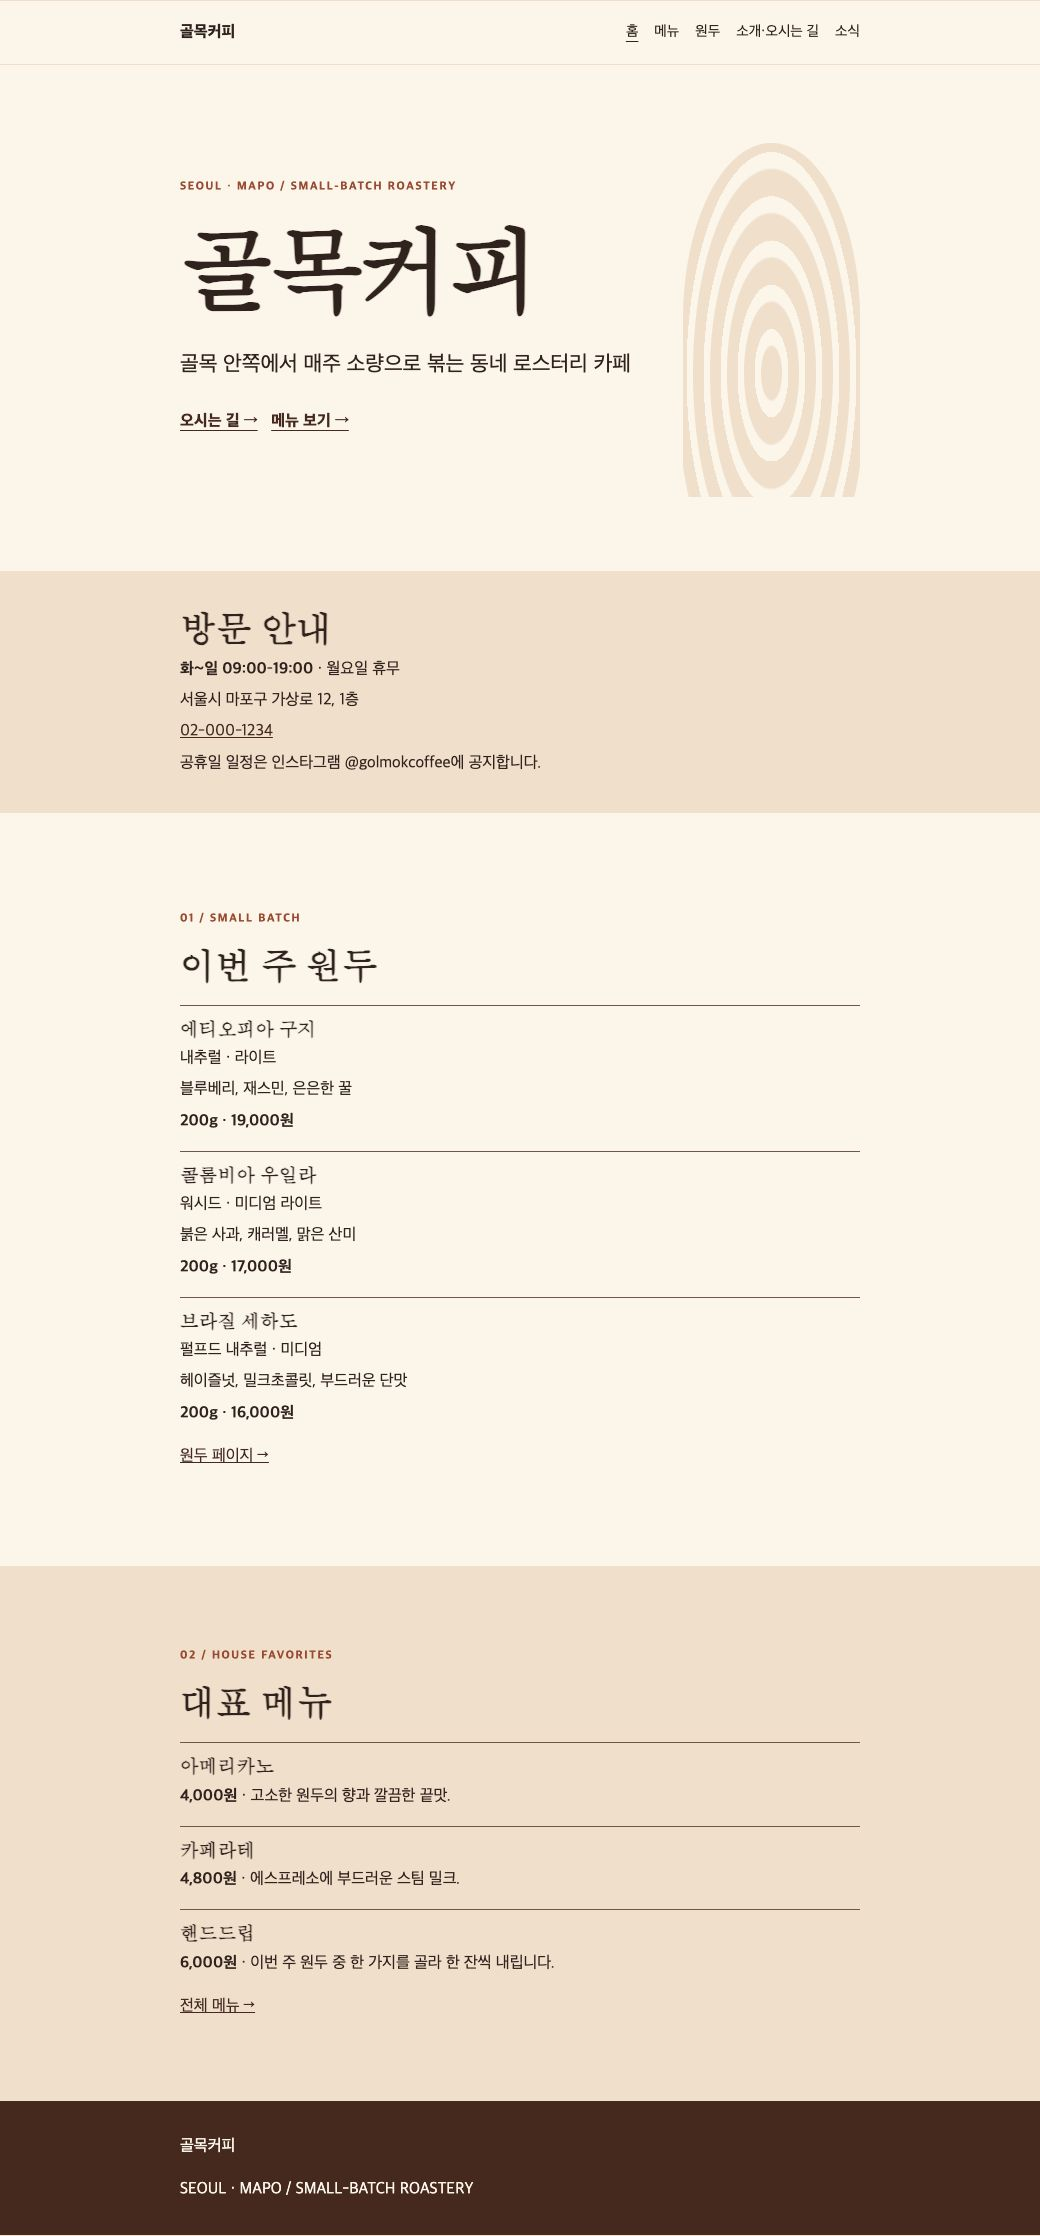
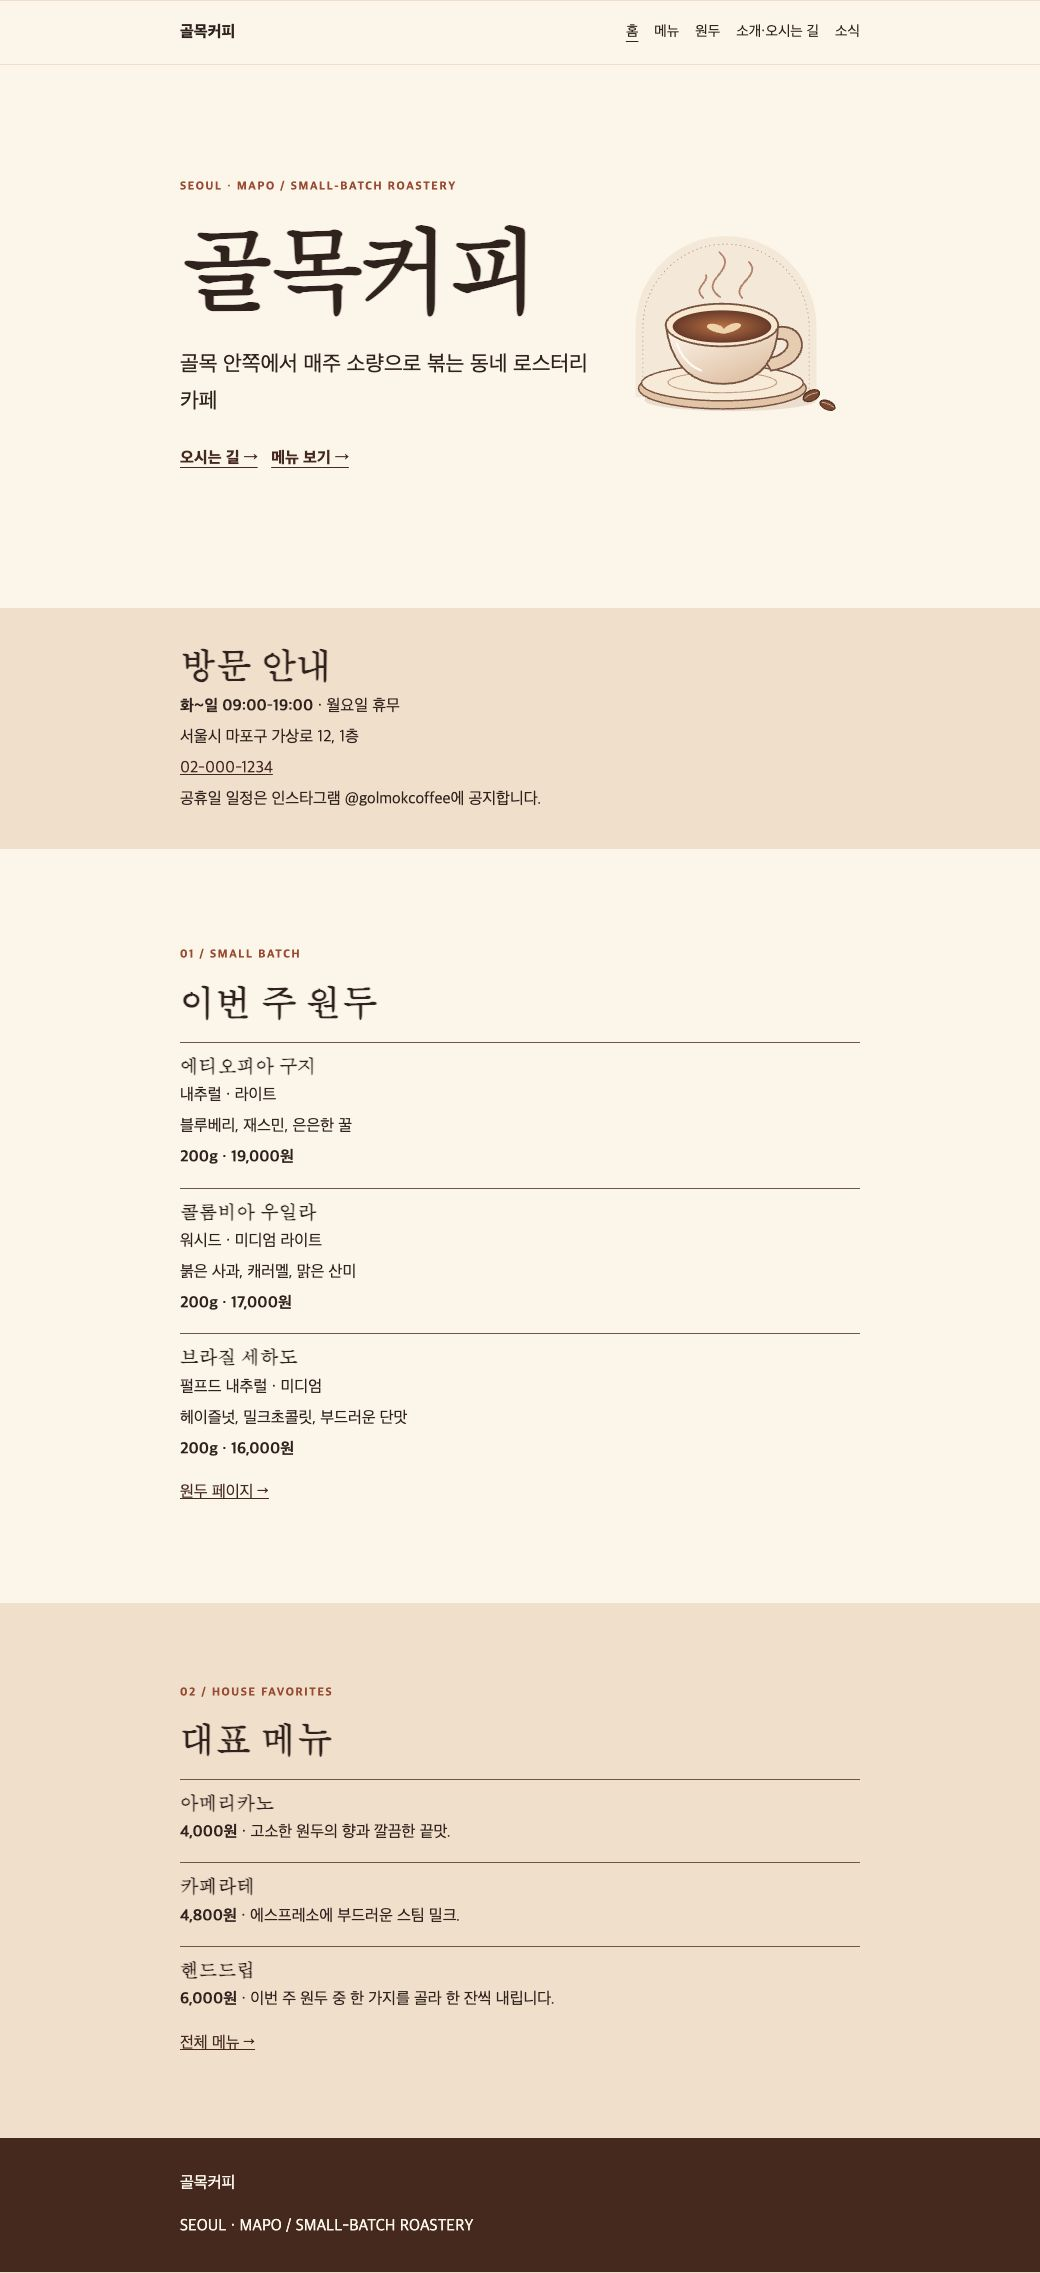
골목커피: Codex 추가 요청(커피잔 SVG, 원두 이미지 3장) 결과
Claude-Session: https://claude.ai/code/session_01NyjakQNUuqDpaHpainKgs5

diff --git a/wordpress-site-with-codex/theme/style.css b/wordpress-site-with-codex/theme/style.css
@@ -4,7 +4,7 @@ Description: A custom block theme scaffolded by Studio Code.
 Requires at least: 6.7
 Tested up to: 6.9
 Requires PHP: 7.2
-Version: 0.1.0
+Version: 0.1.1
 License: GNU General Public License v2 or later
 License URI: http://www.gnu.org/licenses/gpl-2.0.html
 Text Domain: golmokcoffee
@@ -56,14 +56,15 @@ Tags: full-site-editing, block-patterns, block-styles, wide-blocks, accessibilit
 	content: "";
 	position: absolute;
 	z-index: -1;
-	right: 0;
-	top: 16%;
-	bottom: 12%;
-	width: 26%;
-	border-radius: 50% 50% 6px 6px;
-	background: repeating-radial-gradient(ellipse at 50% 65%, var(--wp--preset--color--sand) 0 10px, transparent 11px 17px), var(--wp--preset--color--background);
+	inset: 0 0 0 auto;
+	width: 39%;
+	background: url("assets/images/coffee-cup.svg") right center / contain no-repeat;
+	pointer-events: none;
 }
-.shop-hero > p { max-width: 74%; }
+.shop-hero > p { max-width: 64%; }
+.shop-lede { word-break: keep-all; }
+.coffee-origin-art img { display: block; width: 100%; height: auto; }
+.shop-section .coffee-origin-art { display: none; }
 .shop-kicker { color: var(--wp--preset--color--clay); font-size: .72rem; font-weight: 800; letter-spacing: .14em; }
 .shop-lede { font-size: clamp(1.05rem, 3vw, 1.35rem); }
 .shop-hero-links a { display: inline-block; padding-block: .5rem; font-weight: 750; text-underline-offset: .28em; }
@@ -83,7 +84,7 @@ Tags: full-site-editing, block-patterns, block-styles, wide-blocks, accessibilit
 }
 .shop-news .wp-block-post { padding-block: 1.25rem; border-block-start: 1px solid var(--wp--preset--color--sand); }
 @media (max-width: 600px) {
-	.shop-hero::after { width: 22%; top: 23%; bottom: 20%; }
-	.shop-hero > p { max-width: 81%; }
+	.shop-hero::after { width: 37%; right: -2%; }
+	.shop-hero > p { max-width: 67%; }
 	.shop-hero .shop-kicker { font-size: .62rem; letter-spacing: .08em; }
 }

diff --git a/wordpress-site-with-codex/content/synced-patterns/9-this-week-beans.html b/wordpress-site-with-codex/content/synced-patterns/9-this-week-beans.html
@@ -4,6 +4,10 @@
 <h3 class="wp-block-heading">에티오피아 구지</h3>
 <!-- /wp:heading -->
 
+<!-- wp:image {"id":19,"sizeSlug":"full","linkDestination":"none","className":"coffee-origin-art"} -->
+<figure class="wp-block-image size-full coffee-origin-art"><img src="http://localhost:8881/wp-content/uploads/2026/11/golmok-guji.webp" alt="보랏빛 산과 블루베리·재스민을 그린 에티오피아 구지 원두 봉투" class="wp-image-19"/></figure>
+<!-- /wp:image -->
+
 <!-- wp:paragraph -->
 <p>내추럴 · 라이트</p>
 <!-- /wp:paragraph -->
@@ -19,6 +23,10 @@
 <h3 class="wp-block-heading">콜롬비아 우일라</h3>
 <!-- /wp:heading -->
 
+<!-- wp:image {"id":20,"sizeSlug":"full","linkDestination":"none","className":"coffee-origin-art"} -->
+<figure class="wp-block-image size-full coffee-origin-art"><img src="http://localhost:8881/wp-content/uploads/2026/11/golmok-huila.webp" alt="산과 강, 붉은 사과를 그린 콜롬비아 우일라 원두 봉투" class="wp-image-20"/></figure>
+<!-- /wp:image -->
+
 <!-- wp:paragraph -->
 <p>워시드 · 미디엄 라이트</p>
 <!-- /wp:paragraph -->
@@ -33,6 +41,10 @@
 <!-- wp:heading {"level":3} -->
 <h3 class="wp-block-heading">브라질 세하도</h3>
 <!-- /wp:heading -->
+
+<!-- wp:image {"id":21,"sizeSlug":"full","linkDestination":"none","className":"coffee-origin-art"} -->
+<figure class="wp-block-image size-full coffee-origin-art"><img src="http://localhost:8881/wp-content/uploads/2026/11/golmok-cerrado.webp" alt="황금빛 구릉과 헤이즐넛을 그린 브라질 세하도 원두 봉투" class="wp-image-21"/></figure>
+<!-- /wp:image -->
 
 <!-- wp:paragraph -->
 <p>펄프드 내추럴 · 미디엄</p>
